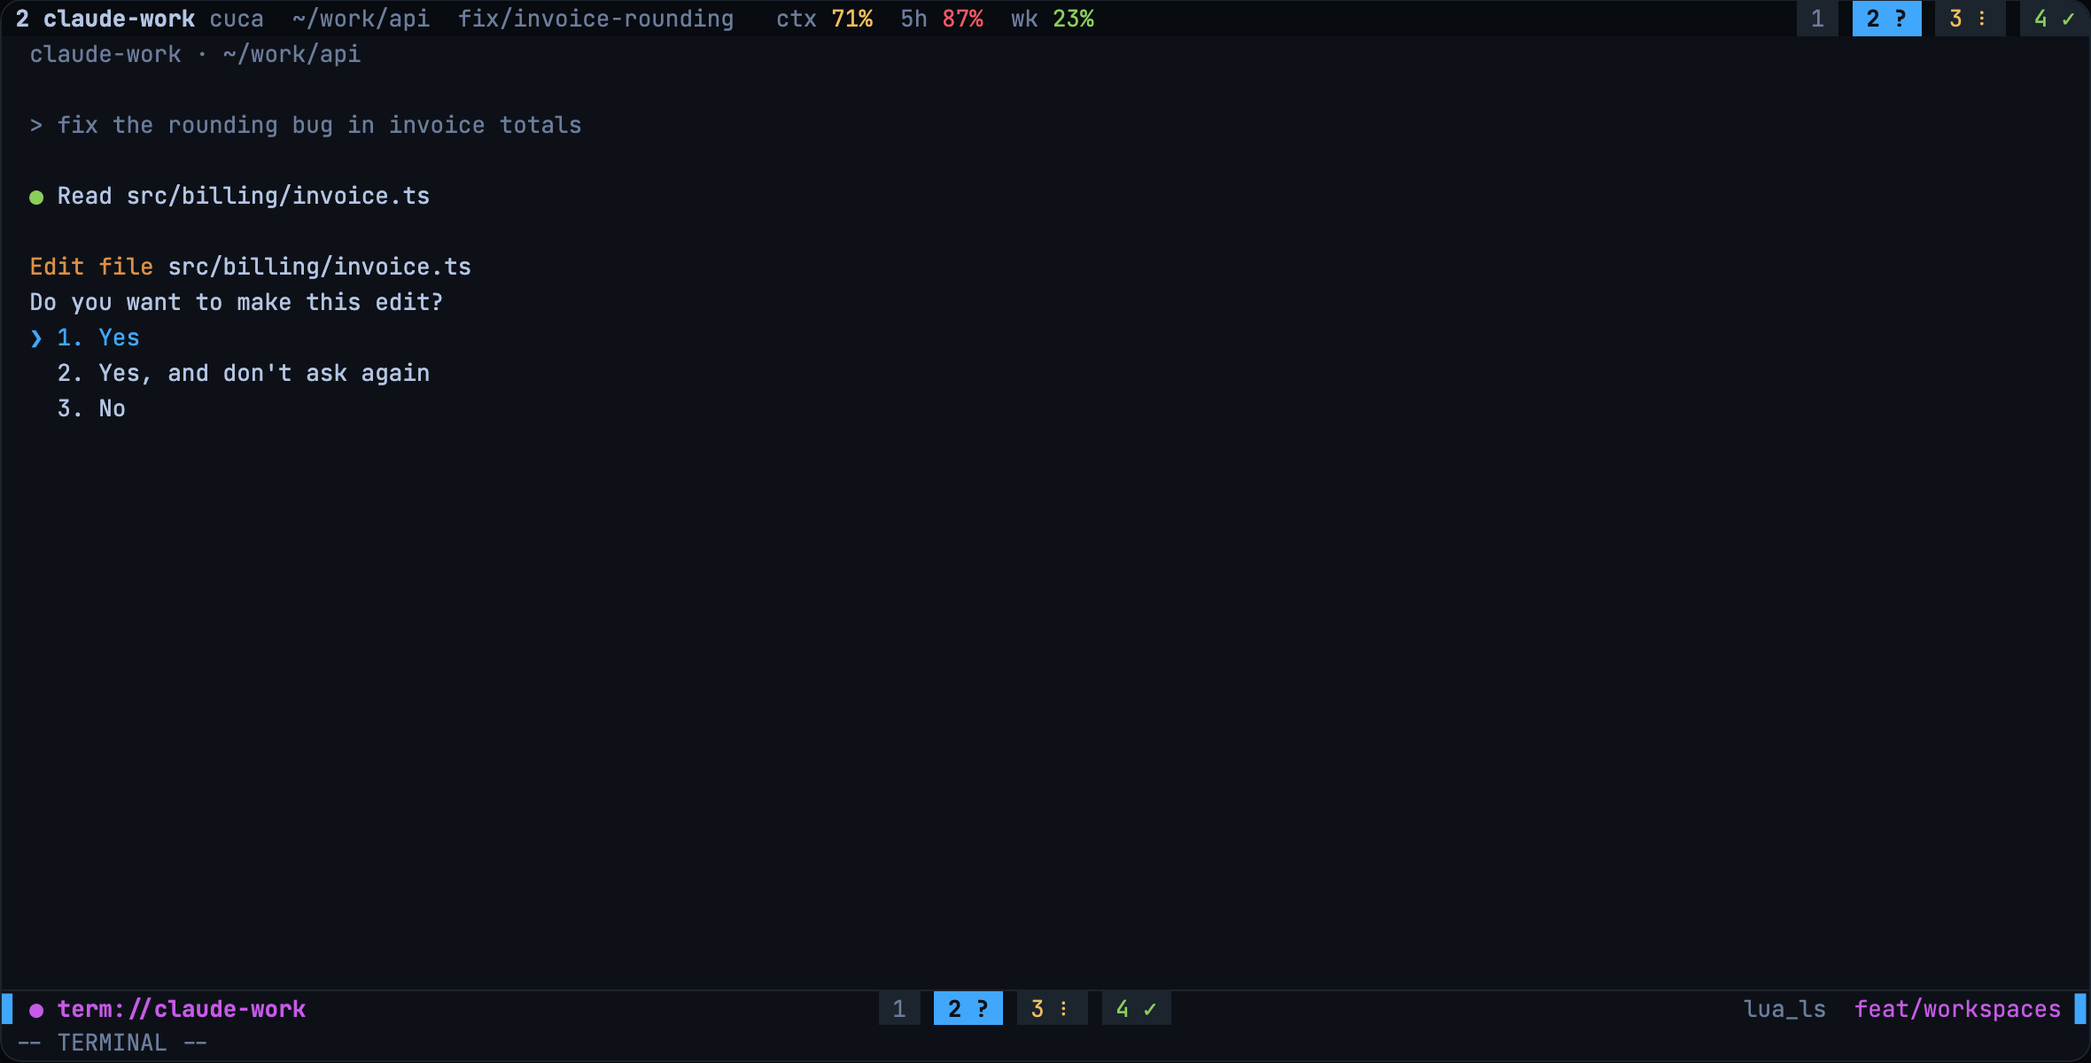
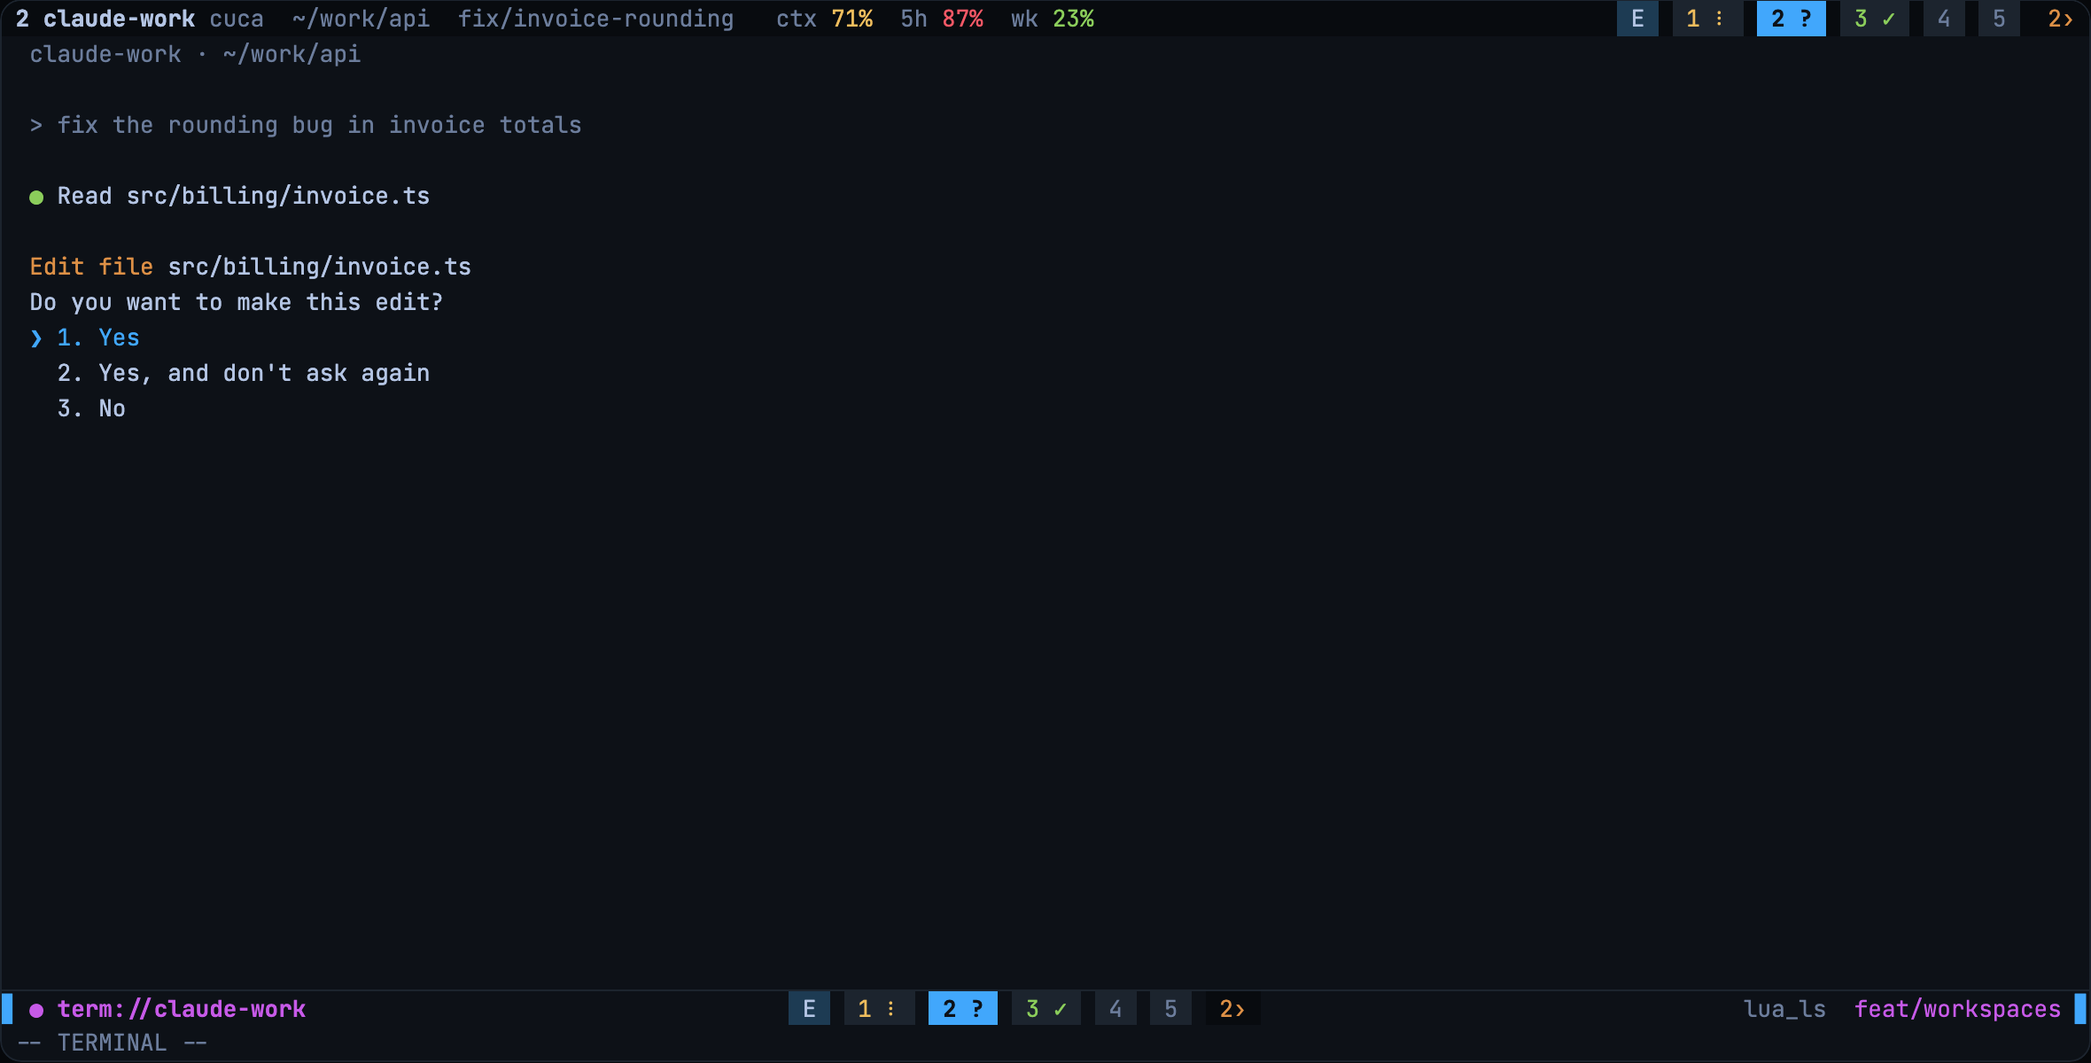
docs: agents from 1, editor pill and pill window
## Summary
- Mockup, README and help follow the new numbering and the pill window

## Changes
- Mockup: E pill, agents from 1, seven agents with window markers
- README and :help: editor key, editor label, pills.max, new groups
- Screenshots retaken from the mockup

Changed region(s): [[0.7733, 0.0, 1.0, 0.0617], [0.4331, 0.925, 0.4949, 0.9558], [0.3712, 0.925, 0.4021, 0.9867]]

diff --git a/docs/mockup.html b/docs/mockup.html
@@ -69,6 +69,11 @@ h1 { margin: 0; font-size: clamp(26px, 4vw, 38px); font-weight: 600; color: var(
 .pill.done { color: var(--green); }
 .pill.ask { color: var(--orange); }
 .pill.ask.blink { color: var(--bg); background: var(--orange); }
+.pill.editor { color: var(--fg-light); background: #1d3b53; }
+.pill.editor.cur { color: var(--bg); background: var(--fg); }
+.pill.more { color: var(--fg-dark); background: var(--bg-dark); }
+.pill.more.ask { color: var(--orange); } .pill.more.done { color: var(--green); } .pill.more.work { color: var(--yellow); }
+.pill.more.ask.blink { color: var(--bg); background: var(--orange); }
 .gap { background: var(--bg-dark); }
 .status .gap { background: var(--bg); }
 
@@ -155,6 +160,11 @@ h1 { margin: 0; font-size: clamp(26px, 4vw, 38px); font-weight: 600; color: var(
       <p>Usage cells show <code>–</code> when an agent does not report them yet, like a Claude session before its first answer or a CLI such as codex that sends no limits.</p>
     </div>
     <div class="note">
+      <h2>Many agents, few pills</h2>
+      <p>Agents are numbered from 1 and the editor is the <code>E</code> pill, which <code>&lt;C-,&gt;</code> reaches from any agent. There is no limit on agents, but only five pills show at a time around the one you are in.</p>
+      <p>Markers like <code>‹2</code> and <code>3›</code> count the hidden agents on each side and take the color of the most urgent one, so an agent asking for input still blinks when it is out of view.</p>
+    </div>
+    <div class="note">
       <h2>What Neovim can draw</h2>
       <p>Everything here is a grid of cells with a color, a background and bold. Floats get rounded borders, but statusline pills are flat blocks, and the ask pill blinks by swapping its highlight on a timer.</p>
     </div>
@@ -162,7 +172,7 @@ h1 { margin: 0; font-size: clamp(26px, 4vw, 38px); font-weight: 600; color: var(
       <h2>Keys</h2>
       <div class="keys">
         <code>&lt;C-,&gt;</code><span>editor ⇄ last agent (normal and terminal)</span>
-        <code>&lt;C-1..9&gt;</code><span>jump to slot, silent when empty</span>
+        <code>&lt;C-1..9&gt;</code><span>jump to agent N, silent when empty</span>
         <code>&lt;leader&gt;ap</code><span>pick an open instance</span>
         <code>&lt;leader&gt;an</code><span>new instance from a profile</span>
         <code>&lt;leader&gt;ai</code><span>name the current instance</span>
@@ -189,12 +199,19 @@ h1 { margin: 0; font-size: clamp(26px, 4vw, 38px); font-weight: 600; color: var(
     "codex": null,
   };
   let inst = {
+    1: { profile: "claude", name: "ops analysis", state: "work", ctx: 46, cwd: "~/.config/nvim", branch: "main" },
     2: { profile: "claude-work", name: "cuca", state: "ask", ctx: 71, cwd: "~/work/api", branch: "fix/invoice-rounding" },
-    3: { profile: "claude", name: "ops analysis", state: "work", ctx: 46, cwd: "~/.config/nvim", branch: "main" },
-    4: { profile: "codex", name: "zarasa", state: "done", ctx: null, cwd: "~/projects/dotfiles", branch: "main" },
+    3: { profile: "codex", name: "zarasa", state: "done", ctx: null, cwd: "~/projects/dotfiles", branch: "main" },
+    4: { profile: "claude", name: "docs", state: null, ctx: 12, cwd: "~/.config/nvim", branch: "main" },
+    5: { profile: "claude-work", name: "", state: null, ctx: 8, cwd: "~/work/api", branch: "main" },
+    6: { profile: "claude", name: "", state: null, ctx: 21, cwd: "~/projects/site", branch: "main" },
+    7: { profile: "claude-work", name: "release", state: "ask", ctx: 64, cwd: "~/work/api", branch: "release/2.4" },
   };
-  const S = { ws: 1, last: 2, float: null, sel: 0, input: "", frame: 0 };
-  const slots = () => [1, ...Object.keys(inst).map(Number).sort()];
+  // ws 0 is the editor; agents are numbered from 1
+  const S = { ws: 0, last: 2, float: null, sel: 0, input: "", frame: 0 };
+  const agents = () => Object.keys(inst).map(Number).sort((a, b) => a - b);
+  const MAX = 5; // pills.max
+  const RANK = { ask: 3, done: 2, work: 1 };
 
   const lvl = (p) => p == null ? "c-dim" : p >= 85 ? "c-red" : p >= 60 ? "c-yellow" : "c-green";
   const pct = (p) => `<span class="${lvl(p)}">${p == null ? "   –" : String(p).padStart(3) + "%"}</span>`;
@@ -203,19 +220,39 @@ h1 { margin: 0; font-size: clamp(26px, 4vw, 38px); font-weight: 600; color: var(
     if (st === "work") return reduce ? "●" : SPIN[S.frame % SPIN.length];
     return ICON[st] || "";
   }
+  // Window of MAX agent pills around the current agent (or the last one).
+  function range() {
+    const ids = agents();
+    if (ids.length <= MAX) return [1, ids.length];
+    const center = S.ws || (inst[S.last] ? S.last : 1);
+    const start = Math.max(1, Math.min(center - Math.floor((MAX - 1) / 2), ids.length - MAX + 1));
+    return [start, start + MAX - 1];
+  }
+  const blink = (st, n) => st === "ask" && n !== S.ws && S.frame % 10 < 5 ? "blink" : "";
+  function marker(hidden, text) {
+    // a marker takes the most urgent state it hides: ask > done > work
+    const st = hidden.map((n) => inst[n].state).filter(Boolean).sort((a, b) => RANK[b] - RANK[a])[0];
+    return `<button class="pill more ${st || ""} ${blink(st)}" data-act="pick" aria-label="${hidden.length} more agents${st ? ", one " + st : ""}"> ${text} </button>`;
+  }
   function pills() {
-    return slots().map((n, i) => {
-      const st = n === 1 ? null : inst[n].state;
+    const ids = agents();
+    const [a, b] = range();
+    const out = [`<button class="pill editor${S.ws === 0 ? " cur" : ""}" data-act="ws" data-n="0" aria-label="Editor"> E </button>`];
+    const left = ids.filter((n) => n < a), right = ids.filter((n) => n > b);
+    if (left.length) out.push(marker(left, "‹" + left.length));
+    for (const n of ids.filter((n) => n >= a && n <= b)) {
+      const st = inst[n].state;
       const ic = icon(st);
-      const cls = ["pill", n === S.ws ? "cur" : st || "", st === "ask" && n !== S.ws && S.frame % 10 < 5 ? "blink" : ""].join(" ");
-      const gap = i ? `<span class="gap"> </span>` : "";
-      return `${gap}<button class="${cls}" data-act="ws" data-n="${n}" aria-label="Workspace ${n}${st ? ", " + st : ""}"> ${n} ${ic ? ic + " " : ""}</button>`;
-    }).join("");
+      const cls = ["pill", n === S.ws ? "cur" : st || "", blink(st, n)].join(" ");
+      out.push(`<button class="${cls}" data-act="ws" data-n="${n}" aria-label="Agent ${n}${st ? ", " + st : ""}"> ${n} ${ic ? ic + " " : ""}</button>`);
+    }
+    if (right.length) out.push(marker(right, right.length + "›"));
+    return out.join(`<span class="gap"> </span>`);
   }
 
   function tabline() {
     let left;
-    if (S.ws === 1) {
+    if (S.ws === 0) {
       left = `<span class="bufname">  status.lua </span><span class="slant"></span><span class="bufname on">  picker.lua <span class="c-green">●</span> </span><span class="slant"></span><span class="bufname">  keymaps.lua </span>`;
     } else {
       const a = inst[S.ws], l = limits[a.profile];
@@ -227,7 +264,7 @@ h1 { margin: 0; font-size: clamp(26px, 4vw, 38px); font-weight: 600; color: var(
   }
 
   function status() {
-    const left = S.ws === 1
+    const left = S.ws === 0
       ? `<span class="c-blue">▊</span> <span class="c-green">●</span> <span class="c-purple b">picker.lua</span> <span class="c-dim">1.2k  8:20</span>`
       : `<span class="c-blue">▊</span> <span class="c-purple">●</span> <span class="c-purple b">term://${esc(inst[S.ws].profile)}</span>`;
     $("status").innerHTML = `<span>${left}</span><span class="fill"></span>${pills()}<span class="fill"></span><span class="c-dim">lua_ls </span><span class="c-purple"> feat/workspaces </span><span class="c-blue">▊</span>`;
@@ -251,7 +288,7 @@ h1 { margin: 0; font-size: clamp(26px, 4vw, 38px); font-weight: 600; color: var(
      workspace.lua`;
 
   function agentView() {
-    if (S.ws === 1) return;
+    if (S.ws === 0) return;
     const a = inst[S.ws];
     const head = `<span class="c-dim">${esc(a.profile)} · ${a.cwd}</span>\n\n`;
     const body = {
@@ -295,27 +332,27 @@ h1 { margin: 0; font-size: clamp(26px, 4vw, 38px); font-weight: 600; color: var(
 
   function toast() {
     const asking = Object.keys(inst).find((n) => inst[n].state === "ask" && Number(n) !== S.ws);
-    $("toast").hidden = !(asking && S.ws === 1 && !S.float);
+    $("toast").hidden = !(asking && S.ws === 0 && !S.float);
     if (asking) $("toast").innerHTML = `<span class="c-orange b">${asking} ${esc(inst[asking].name || inst[asking].profile)} needs input</span>\n<span class="c-dim">&lt;C-${asking}&gt; to answer</span>`;
   }
 
   function render() {
-    $("ws-1").classList.toggle("on", S.ws === 1);
-    $("ws-agent").classList.toggle("on", S.ws !== 1);
+    $("ws-1").classList.toggle("on", S.ws === 0);
+    $("ws-agent").classList.toggle("on", S.ws !== 0);
     tabline(); status(); agentView(); floatView(); toast();
-    $("cmdline").textContent = S.float ? "" : S.ws === 1 ? "" : "-- TERMINAL --";
+    $("cmdline").textContent = S.float ? "" : S.ws === 0 ? "" : "-- TERMINAL --";
   }
 
   function go(n) {
     n = Number(n);
-    if (n !== 1 && !inst[n]) return; // empty slot: stay put, no notification
-    if (S.ws !== 1) S.last = S.ws;
+    if (n !== 0 && !inst[n]) return; // empty slot: stay put, no notification
+    if (S.ws !== 0) S.last = S.ws;
     S.ws = n; S.float = null;
-    if (n !== 1) { S.last = n; if (inst[n].state === "done" || inst[n].state === "ask") { /* seen */ } }
+    if (n !== 0) S.last = n;
     render();
   }
   function open(kind) {
-    if (kind === "rename" && S.ws === 1) return;
+    if (kind === "rename" && S.ws === 0) return;
     S.float = kind; S.sel = 0;
     S.input = kind === "rename" ? inst[S.ws].name || "" : "";
     render();
@@ -323,21 +360,20 @@ h1 { margin: 0; font-size: clamp(26px, 4vw, 38px); font-weight: 600; color: var(
   function choose(n) {
     if (S.float === "pick") return go(n);
     if (S.float === "new") {
-      const free = [2,3,4,5,6,7,8,9].find((k) => !inst[k]);
-      if (!free) return;
+      const free = agents().length + 1; // no limit
       inst[free] = { profile: n, name: "", state: null, ctx: null, cwd: "~/.config/nvim", branch: "main" };
       return go(free);
     }
   }
   function close() {
-    if (S.ws === 1) return;
+    if (S.ws === 0) return;
     const keep = Object.keys(inst).map(Number).sort().filter((k) => k !== S.ws).map((k) => inst[k]);
-    inst = {}; keep.forEach((a, i) => { inst[i + 2] = a; }); // slots compact
-    S.ws = 1; S.last = 2; render();
+    inst = {}; keep.forEach((a, i) => { inst[i + 1] = a; }); // agents compact
+    S.ws = 0; S.last = 1; render();
   }
   function act(a, n) {
     if (a === "ws") go(n);
-    else if (a === "toggle") go(S.ws === 1 ? (inst[S.last] ? S.last : 1) : 1);
+    else if (a === "toggle") go(S.ws === 0 ? (inst[S.last] ? S.last : 0) : 0);
     else if (a === "close") close();
     else if (a === "choose") choose(n);
     else open(a);
@@ -379,7 +415,7 @@ h1 { margin: 0; font-size: clamp(26px, 4vw, 38px); font-weight: 600; color: var(
   if (params.get("float")) { S.float = params.get("float"); S.sel = Number(params.get("sel") || 0); }
   if (params.get("frame")) S.frame = Number(params.get("frame"));
 
-  if (!reduce) setInterval(() => { S.frame++; tabline(); status(); if (S.ws !== 1 && inst[S.ws].state === "work") agentView(); if (S.float === "pick") floatView(); }, 100);
+  if (!reduce) setInterval(() => { S.frame++; tabline(); status(); if (S.ws !== 0 && inst[S.ws].state === "work") agentView(); if (S.float === "pick") floatView(); }, 100);
   render();
 })();
 </script>

diff --git a/README.md b/README.md
@@ -10,7 +10,9 @@ crew is opinionated. The defaults reflect one specific workflow (Claude Code, sn
 
 This section explains why agents live in tabs instead of splits. A split shares its columns with your code, so the agent renders cramped and every resize redraws its interface. A tab gives the agent the whole screen while your editor layout stays untouched in tab 1 where one key brings you back.
 
-Slot 1 is always your editor and slots 2 to 9 are agent instances. When an instance closes, the ones after it move down, so `<C-3>` always means the third tab you see.
+Agents are numbered from 1 and the editor stands apart as the `E` pill, which `<C-,>` reaches from any agent. When an instance closes, the ones after it move down, so `<C-3>` always means the third agent you see.
+
+There is no limit on how many agents you open. Only five pills show at a time around the agent you are in, while markers like `‹2` and `3›` count the hidden ones on each side. Each marker takes the color of the most urgent agent it hides, so an agent asking for input still blinks when it is out of view.
 
 ![An agent tab asking for permission](docs/images/agent.png)
 
@@ -53,7 +55,7 @@ All keys live under `<leader>a` except the tab switching ones, which need to wor
 | Key | Mode | Action |
 |---|---|---|
 | `<C-,>` | normal, terminal | Toggle between the editor and the last agent |
-| `<C-1>` to `<C-9>` | normal, terminal | Jump to a slot, silently ignored when it is empty |
+| `<C-1>` to `<C-9>` | normal, terminal | Jump to agent N, silently ignored when it is empty |
 | `<leader>an` | normal | New instance, picking a profile when there are several |
 | `<leader>ap` | normal | Pick an open instance |
 | `<leader>ai` | normal | Name the current instance |
@@ -73,6 +75,7 @@ Every entry in `opts.keys` takes a key string or `false` to turn it off. The exa
 opts = {
   keys = {
     toggle = "<C-,>",
+    editor = "<C-0>", -- off by default, since <C-,> already reaches the editor
     new = "<leader>cn",
     close = "<leader>cx",
     pick = "<leader>cp",
@@ -89,9 +92,20 @@ opts = {
 
 To map things yourself, set the keys to `false` and call the commands listed below.
 
+### Editor pill and pill window
+
+The editor pill label and the number of visible agent pills are options too.
+
+```lua
+opts = {
+  editor = { label = "E" }, -- "[E]", "Editor" or an icon
+  pills = { max = 5 },      -- agent pills shown around the current one
+}
+```
+
 ## Pickers
 
-crew opens its own snacks pickers with no preview window, so your global picker layout keeps its file preview everywhere else. The instance picker shows the slot, profile and name of each instance next to its usage, with a footer listing the keys that work inside it.
+crew opens its own snacks pickers with no preview window, so your global picker layout keeps its file preview everywhere else. The instance picker shows the number, profile and name of each instance next to its usage, with a footer listing the keys that work inside it.
 
 ![The instance picker](docs/images/picker.png)
 
@@ -123,7 +137,7 @@ crew ships thin adapters and leaves the wiring to you, so it never changes anoth
 
 ### With bufferline
 
-Pills replace the tab numbers on the right. Inside agent tabs the filter hides your editor buffers and the left area shows a header with the slot, profile, name, cwd, branch and usage meters of that agent.
+Pills replace the tab numbers on the right. Inside agent tabs the filter hides your editor buffers and the left area shows a header with the number, profile, name, cwd, branch and usage meters of that agent.
 
 ```lua
 options = {
@@ -156,8 +170,9 @@ Lualine has no room for the agent header, so turn on `header = "winbar"` in the 
 
 Every color comes from a group linked to a standard one with `default = true`, so crew follows your colorscheme and any `nvim_set_hl` call of yours wins.
 
-- Pills use `CrewPill`, `CrewPillCurrent`, `CrewPillWork`, `CrewPillAsk`, `CrewPillAskBlink` and `CrewPillDone`
-- The header uses `CrewHeader` for the slot and profile, `CrewHeaderName` for the name and `CrewHeaderDim` for the cwd, branch and labels
+- Agent pills use `CrewPill`, `CrewPillCurrent`, `CrewPillWork`, `CrewPillAsk`, `CrewPillAskBlink` and `CrewPillDone`
+- The editor pill uses `CrewPillEditor` and `CrewPillEditorCurrent`, while the hidden agent markers use `CrewPillMore` when nothing they hide has a state
+- The header uses `CrewHeader` for the number and profile, `CrewHeaderName` for the name and `CrewHeaderDim` for the cwd, branch and labels
 
 Brightening the dim header text takes one line in your config.
 
@@ -172,7 +187,7 @@ Everything the keys do is also available as a subcommand of `:Crew`, which helps
 ```
 :Crew open [profile]   :Crew new        :Crew pick
 :Crew jump N           :Crew toggle     :Crew close [N]
-:Crew rename [name]    :Crew list
+:Crew rename [name]    :Crew editor     :Crew list
 ```
 
 ## Status

diff --git a/odd/tasks/crew.md b/odd/tasks/crew.md
@@ -55,10 +55,10 @@ Each lesson leaves a working plugin and teaches one concept. Work happens togeth
 
 - [x] **L9 Quality and publish.** Tests with `mini.test`, `:checkhealth crew`, `doc/crew.txt`, README, GitHub repo `R4k4210/crew.nvim` with topics.
   - Accept: tests pass in CI and the plugin installs from `"R4k4210/crew.nvim"`.
-- [ ] **W1 Agents from 1, editor apart.** Agents number from 1 (`<C-1>` is the first agent), the editor is no longer a numbered slot. `<C-,>` already reaches the editor from any agent, so `keys.editor` is an optional key, `false` by default. Touches compact, tab order, jump, pills, picker, send and tests.
-- [ ] **W2 Editor pill.** Own highlight `CrewPillEditor` and `opts.editor.label` (for example "E", "[E]", "Editor" or an icon).
-- [ ] **W3 No slot limit, sliding window.** Any number of agents; direct keys stay `<C-1>`..`<C-9>`, the rest through the picker or `:Crew jump N`. Pills show a window of `opts.pills.max` (default 5) around the current agent with `‹N` and `N›` counting the hidden ones; each overflow marker takes the most urgent state it hides (ask > done > work), so a hidden agent asking still shows and blinks.
-- [ ] **W4 Mockup, README and help** for W1 to W3, then push.
+- [x] **W1 Agents from 1, editor apart.** Agents number from 1 (`<C-1>` is the first agent), the editor is no longer a numbered slot. `<C-,>` already reaches the editor from any agent, so `keys.editor` is an optional key, `false` by default. Touches compact, tab order, jump, pills, picker, send and tests.
+- [x] **W2 Editor pill.** Own highlight `CrewPillEditor` and `opts.editor.label` (for example "E", "[E]", "Editor" or an icon).
+- [x] **W3 No slot limit, sliding window.** Any number of agents; direct keys stay `<C-1>`..`<C-9>`, the rest through the picker or `:Crew jump N`. Pills show a window of `opts.pills.max` (default 5) around the current agent with `‹N` and `N›` counting the hidden ones; each overflow marker takes the most urgent state it hides (ask > done > work), so a hidden agent asking still shows and blinks.
+- [x] **W4 Mockup, README and help** for W1 to W3, then push.
 
 - [ ] **L10 Replace Sidekick.** Swap Sidekick for crew.nvim in the user config.
   - Accept: daily work runs from one terminal for a full day.
@@ -116,6 +116,8 @@ Each lesson leaves a working plugin and teaches one concept. Work happens togeth
 
 - 2026-11-04: L9 done. mini.test suite in `tests/` (route: delegated writer for the port of 8 scratch suites, then parent spot check of `make test`): 118 cases in 9 files, each in a fresh child Neovim, `make test` / `make test_file`, deps cloned into `deps/` (`3d1e7e7`). `:checkhealth crew` (`6bce6b4`) and `doc/crew.txt` with a tag test (`docs: vim help`). Repo topics still pending (outward action, needs the user).
 
+- 2026-11-04: W1 to W3 implemented by a delegated writer, test first (RED 58 fails, then GREEN), one signed commit each: `ebc02c7` agents from 1 with the editor apart and no slot limit, `f0531c9` editor pill (`editor.label`, `CrewPillEditor`, `CrewPillEditorCurrent`), `4591f5a` sliding window (`pills.max`, `‹N` / `N›` markers with the most urgent hidden state, `CrewPillMore`). Parent spot check: `make test` 151 cases, Fails (0); user config with 15 agents on agent 10 renders `E ‹7 8 9 10 11 12 3›` with the right colors. W4: mockup (agents from 1, E pill, window markers, 7 agents), README, `:help crew` and screenshots updated.
+
 ## Next step
 
-Push L9, add repo topics, then L10 (Sidekick already replaced, so only the final user config cleanup remains).
+L10: final user config cleanup (Sidekick already removed); commit the user config changes in the nvim repo when the user decides.
